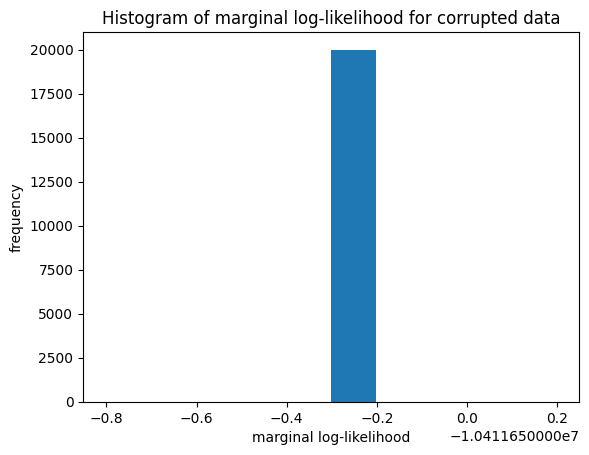
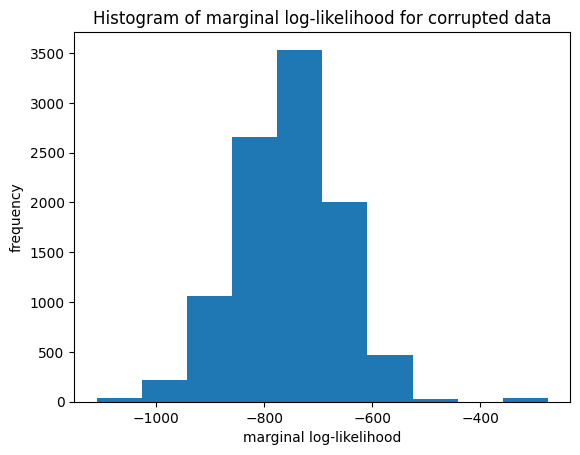
4 to 6 ok

diff --git a/pa1.py b/pa1.py
@@ -382,16 +382,27 @@ def q5():
     return
 
 def get_log_marginal_likelihood(data):
+    progress = 100
+
+    n = len(data) 
+    marginal_log_likelihood=np.zeros(n)
+    for i in range(n):
+        if i % progress == 0:
+            print('val',i,'/',n)
+        marginal_log_likelihood[i]=get_log_marginal_likelihood_datum(data[i])
+
+    return marginal_log_likelihood
+
+def get_log_marginal_likelihood_datum(datum):
 
     # joint for all z1/z2
-    # log_all_Z1_Z2_x = np.zeros(n_disc_z * n_disc_z)
-    log_all_Z1_Z2_x = np.zeros((data.shape[0], n_disc_z * n_disc_z))
+    log_all_Z1_Z2_x = np.zeros(n_disc_z * n_disc_z)
 
     i = 0
     for z1_i in range(n_disc_z):
         for z2_i in range(n_disc_z):
-            p_pixel = pixel_to_p(cond_likelihood[disc_z1[z1_i], disc_z2[z2_i]][0], data)
-            # assert min(p_pixel) >= 0 and max(p_pixel) <= 1
+            p_pixel = pixel_to_p(cond_likelihood[disc_z1[z1_i], disc_z2[z2_i]][0], datum)
+            # assert  min(p_pixel) >= 0 and max(p_pixel) <= 1
             # print(np.max(p_pixel))
             
             p_z1=z1_distribution[z1_i]
@@ -401,29 +412,30 @@ def get_log_marginal_likelihood(data):
             assert p_z2 > 0 and p_z2 < 1
 
             # joint for one z1/z2
-            log_all_Z1_Z2_x[:,i] = np.log(p_z1) + np.log(p_z2) + np.sum(np.log(p_pixel))
+            log_all_Z1_Z2_x[i] = np.log(p_z1) + np.log(p_z2) + np.sum(np.log(p_pixel))
             i = i + 1
 
     assert i == n_disc_z * n_disc_z
 
-    # a_max = np.max(log_all_Z1_Z2_x)
+    a_max = np.max(log_all_Z1_Z2_x)
     # assert a_max < -30, \
     #     "a_max < -30, %d" % a_max
 
-    # log_all_Z1_Z2_x_trick = log_all_Z1_Z2_x - a_max
+    log_all_Z1_Z2_x_trick = log_all_Z1_Z2_x - a_max
     # assert max(log_all_Z1_Z2_x_trick) <= 0, \
     #     "max(log_all_Z1_Z2_x_trick) < 0, %f" % log_all_Z1_Z2_x_trick
 
-    # expsum = np.sum(np.exp(log_all_Z1_Z2_x_trick))
+    expsum = np.sum(np.exp(log_all_Z1_Z2_x_trick))
     # assert expsum >= 1 and expsum < 4, \
     #     "expsum > 1 and expsum < 4, %f, a_max=%f" % (expsum, a_max)
 
-    # log_prob_x = a_max + np.log(expsum)
+    log_prob_x = a_max + np.log(expsum)
     # assert a_max < -30, \
     #     "log_prob_x < -25, %d" % log_prob_x
 
     # print(np.max(log_all_Z1_Z2_x))
-    log_prob_x = logsumexp(log_all_Z1_Z2_x,axis=1)
+    # assert log_prob_x == logsumexp(log_all_Z1_Z2_x), \
+    #     "log_prob_x == logsumexp(log_all_Z1_Z2_x)"
 
     # a_min = np.min(log_all_Z1_Z2_x)
     # if (log_prob_x > -75 and log_prob_x < -25):
@@ -477,12 +489,6 @@ def q6():
     real_n = 1000
     # print(real_n)
 
-    progress = 100
-
-    # val_marginal_log_likelihood=np.zeros(real_n)
-    # for i in range(real_n):
-    #     if i % progress == 0:
-    #         print('val',i,'/',real_n)
     val_marginal_log_likelihood=get_log_marginal_likelihood(val_data)
     # print(val_marginal_log_likelihood)
 
@@ -497,10 +503,6 @@ def q6():
     test_n = 1000
     # print(test_n)
 
-    # test_marginal_log_likelihood=np.zeros(test_n)
-    # for i in range(test_n):
-    #     if i % progress == 0:
-    #         print('test',i,'/',test_n)
     test_marginal_log_likelihood=get_log_marginal_likelihood(test_data)
 
     tmll=test_marginal_log_likelihood
